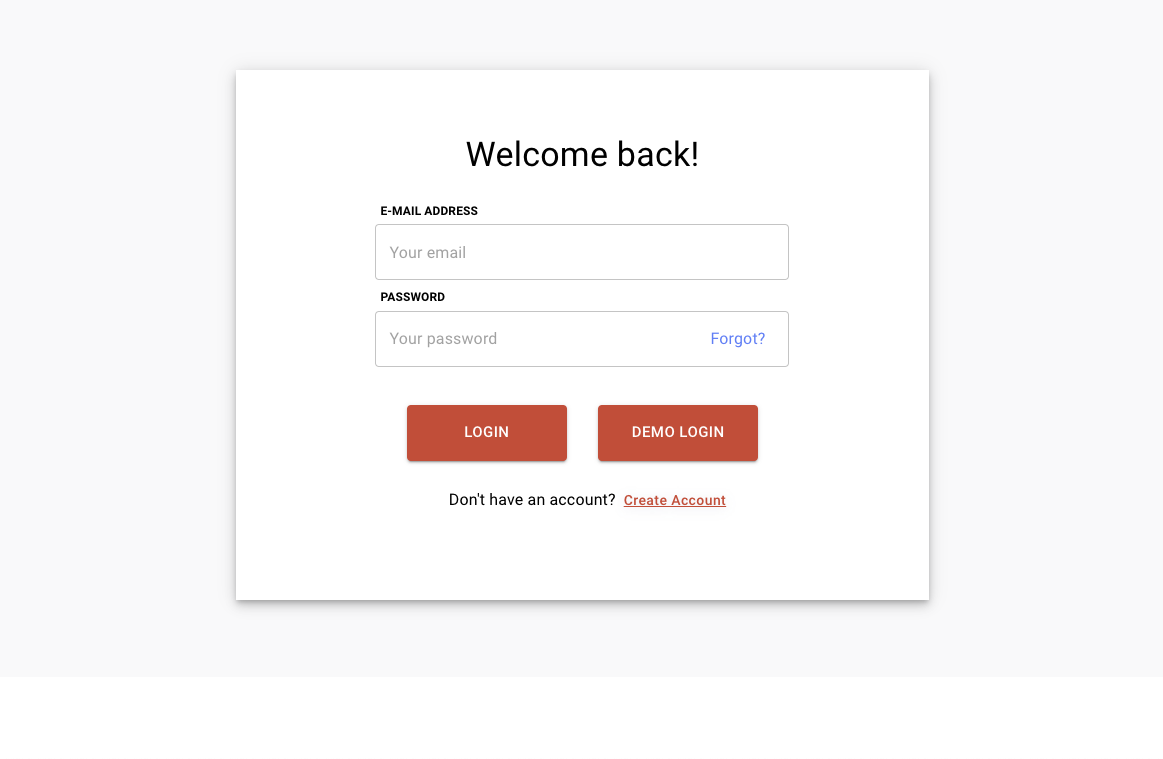
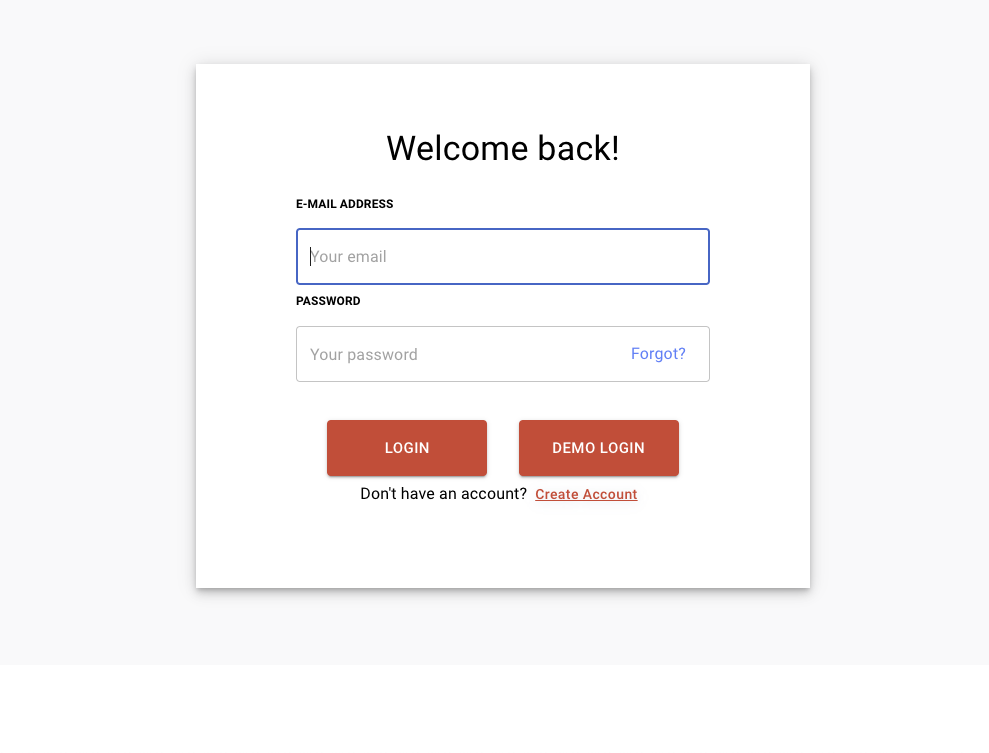
use sx, texttransform uppercase, inputlabel

diff --git a/client/src/pages/SignUp/SignUpForm/SignUpForm.tsx b/client/src/pages/SignUp/SignUpForm/SignUpForm.tsx
@@ -1,5 +1,6 @@
 import Button from '@mui/material/Button';
 import TextField from '@mui/material/TextField';
+import InputLabel from '@mui/material/InputLabel';
 import Box from '@mui/material/Box';
 import Typography from '@mui/material/Typography';
 import CircularProgress from '@mui/material/CircularProgress';
@@ -51,7 +52,7 @@ const SignUpForm = ({ handleSubmit }: Props): JSX.Element => {
     >
       {({ handleSubmit, handleChange, values, touched, errors, isSubmitting }) => (
         <form onSubmit={handleSubmit} className={classes.form} noValidate>
-          <Typography className={classes.label}>EMAIL ADDRESS</Typography>
+          <InputLabel className={classes.label}>email address</InputLabel>
           <TextField
             id="email"
             placeholder="Your email"
@@ -70,7 +71,7 @@ const SignUpForm = ({ handleSubmit }: Props): JSX.Element => {
             value={values.email}
             onChange={handleChange}
           />
-          <Typography className={classes.label}>NAME</Typography>
+          <InputLabel className={classes.label}>name</InputLabel>
           <TextField
             id="username"
             placeholder="Your name"
@@ -90,7 +91,7 @@ const SignUpForm = ({ handleSubmit }: Props): JSX.Element => {
             value={values.username}
             onChange={handleChange}
           />
-          <Typography className={classes.label}>PASSWORD</Typography>
+          <InputLabel className={classes.label}>password</InputLabel>
           <TextField
             id="password"
             placeholder="Create a password"

diff --git a/client/src/pages/Login/LoginForm/LoginForm.tsx b/client/src/pages/Login/LoginForm/LoginForm.tsx
@@ -1,5 +1,6 @@
 import Button from '@mui/material/Button';
 import TextField from '@mui/material/TextField';
+import InputLabel from '@mui/material/InputLabel';
 import Box from '@mui/material/Box';
 import Typography from '@mui/material/Typography';
 import CircularProgress from '@mui/material/CircularProgress';
@@ -46,7 +47,7 @@ export default function Login({ handleSubmit }: Props): JSX.Element {
     >
       {({ handleSubmit, handleChange, values, touched, errors, isSubmitting }) => (
         <form onSubmit={handleSubmit} className={classes.form} noValidate>
-          <Typography className={classes.label}>E-MAIL ADDRESS</Typography>
+          <InputLabel className={classes.label}>e-mail address</InputLabel>
           <TextField
             id="email"
             placeholder="Your email"
@@ -66,7 +67,7 @@ export default function Login({ handleSubmit }: Props): JSX.Element {
             value={values.email}
             onChange={handleChange}
           />
-          <Typography className={classes.label}>PASSWORD</Typography>
+          <InputLabel className={classes.label}>password</InputLabel>
           <TextField
             id="password"
             placeholder="Your password"

diff --git a/client/src/components/AuthFooter/AuthFooter.tsx b/client/src/components/AuthFooter/AuthFooter.tsx
@@ -14,7 +14,7 @@ const AuthFooter = ({ linkTo, asideText, btnText }: Props): JSX.Element => {
   const classes = useStyles();
 
   return (
-    <Box p={1} display="flex" justifyContent="center" alignSelf="center" marginRight={5} className={classes.authHeader}>
+    <Box sx={{ display: 'flex', justifyContent: 'center' }}>
       <Typography className={classes.accAside}>{asideText}</Typography>
       <Button component={Link} to={linkTo} color="inherit" className={classes.accBtn} variant="text">
         {btnText}

diff --git a/client/src/pages/Login/LoginForm/useStyles.ts b/client/src/pages/Login/LoginForm/useStyles.ts
@@ -8,12 +8,12 @@ const useStyles = makeStyles((theme: Theme) => ({
   },
   label: {
     fontSize: 19,
-    color: 'rgb(0,0,0)',
     paddingLeft: '5px',
-    '&.MuiTypography-root': {
+    textTransform: 'uppercase',
+    '&.MuiInputLabel-root': {
       fontSize: 12,
       fontWeight: 'bold',
-      marginBottom: '-1.5vh',
+      color: 'rgb(0,0,0)',
     },
   },
   inputs: {

diff --git a/client/src/pages/SignUp/SignUpForm/useStyles.ts b/client/src/pages/SignUp/SignUpForm/useStyles.ts
@@ -8,12 +8,12 @@ const useStyles = makeStyles((theme: Theme) => ({
   },
   label: {
     fontSize: 19,
-    color: 'rgb(0,0,0)',
     paddingLeft: '5px',
-    '&.MuiTypography-root': {
+    textTransform: 'uppercase',
+    '&.MuiInputLabel-root': {
       fontSize: 12,
       fontWeight: 'bold',
-      marginBottom: '-1.5vh',
+      color: 'rgb(0,0,0)',
     },
   },
   inputs: {

diff --git a/client/src/components/AuthFooter/useStyles.ts b/client/src/components/AuthFooter/useStyles.ts
@@ -2,12 +2,6 @@ import { Theme } from '@mui/material/styles';
 import { makeStyles } from '@mui/styles';
 
 const useStyles = makeStyles((theme: Theme) => ({
-  authHeader: {
-    alignItems: 'center',
-    flexWrap: 'wrap',
-    marginTop: '2vh',
-    marginLeft: '3rem',
-  },
   accAside: {
     fontSize: 10,
     color: '#000000',
